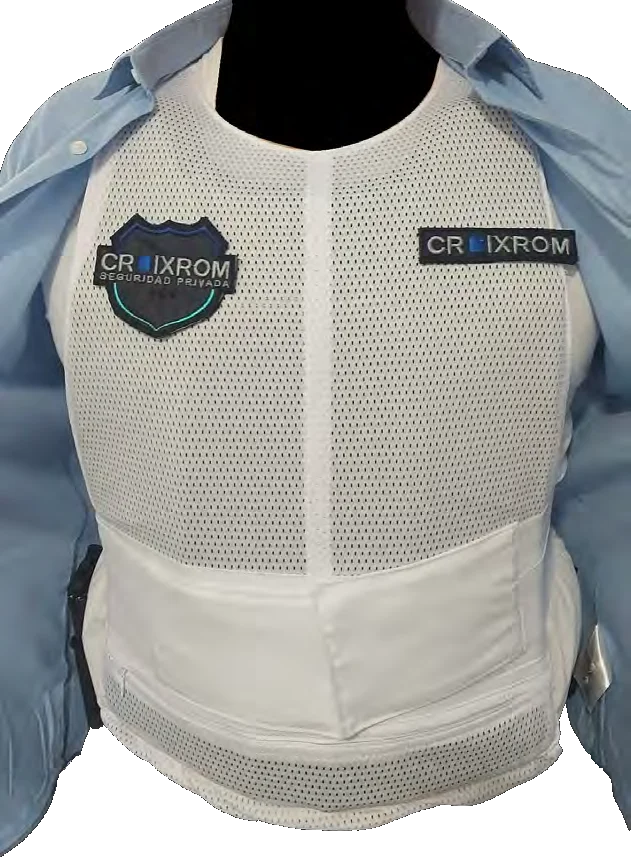
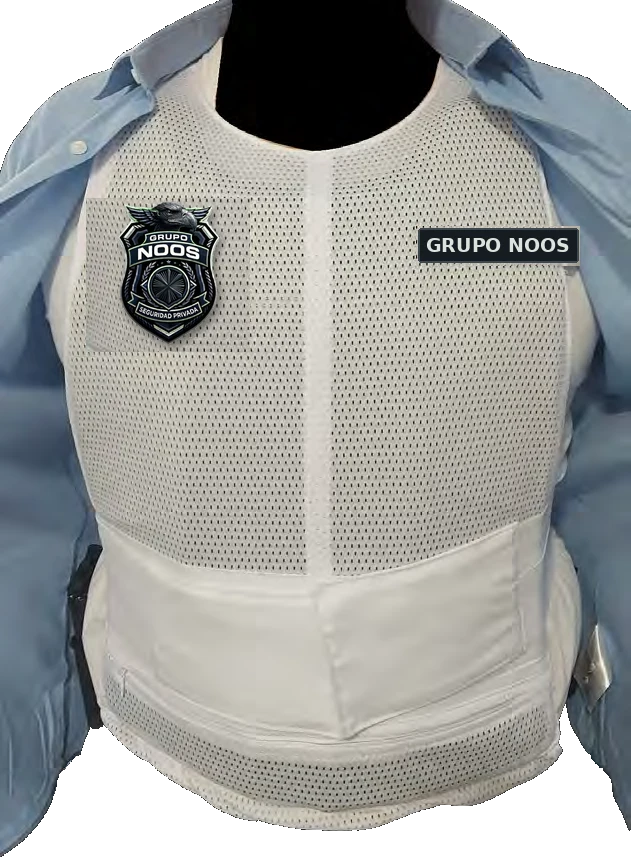
Quitar referencias a CROIXROM y usar la marca Grupo Noos
Correos y redes sociales con el nombre de Grupo Noos, parches del
chaleco antibalas reemplazados por el escudo y la cinta de Grupo Noos,
y se eliminan imágenes que ya no se usaban.

Claude-Session: https://claude.ai/code/session_01Gr8Gs3b6jXLqftHCJKEWhA

Changed region(s): [[0.1204, 0.2124, 0.3914, 0.4247], [0.6624, 0.2427, 0.9334, 0.3337]]

diff --git a/contacto.html b/contacto.html
@@ -58,7 +58,7 @@
       <ul class="contact-list">
         <li><span class="ic"><svg viewBox="0 0 24 24" fill="none" stroke="currentColor" stroke-width="1.6"><path d="M5 3h4l2 5-2.5 1.5a11 11 0 0 0 6 6L16 13l5 2v4a2 2 0 0 1-2 2A16 16 0 0 1 3 5a2 2 0 0 1 2-2"/></svg></span><div><small>Oficina</small><a href="tel:+525571004711">55 7100 4711</a></div></li>
         <li><span class="ic"><svg viewBox="0 0 24 24" fill="currentColor"><path d="M17.5 14.4c-.3-.1-1.7-.8-2-.9-.3-.1-.5-.1-.7.1-.2.3-.8.9-.9 1.1-.2.2-.3.2-.6.1-.3-.1-1.2-.5-2.3-1.4-.9-.8-1.4-1.7-1.6-2-.2-.3 0-.5.1-.6l.4-.5c.2-.2.2-.3.3-.5.1-.2 0-.4 0-.5l-.9-2.2c-.2-.6-.5-.5-.7-.5h-.6c-.2 0-.5.1-.8.4-.3.3-1 1-1 2.4s1 2.8 1.2 3c.1.2 2 3.1 4.9 4.3.7.3 1.2.5 1.7.6.7.2 1.3.2 1.8.1.6-.1 1.7-.7 1.9-1.4.2-.7.2-1.2.2-1.4-.1-.1-.3-.2-.6-.3zM12 21.8c-1.8 0-3.5-.5-5-1.4l-.4-.2-3.7 1 1-3.6-.2-.4A9.8 9.8 0 1 1 12 21.8zm8.4-18.2A11.8 11.8 0 0 0 1.9 17.9L.2 24l6.3-1.7A11.8 11.8 0 0 0 24 12c0-3.2-1.2-6.1-3.6-8.4z"/></svg></span><div><small>WhatsApp</small><a href="https://wa.me/525523781229" target="_blank" rel="noopener">55 2378 1229</a></div></li>
-        <li><span class="ic"><svg viewBox="0 0 24 24" fill="none" stroke="currentColor" stroke-width="1.6"><rect x="3" y="5" width="18" height="14"/><path d="m3 6 9 7 9-7"/></svg></span><div><small>Correo</small><a href="mailto:ceo@croixrom.mx">ceo@croixrom.mx</a><br><a href="mailto:a.castaneda@croixrom.mx">a.castaneda@croixrom.mx</a></div></li>
+        <li><span class="ic"><svg viewBox="0 0 24 24" fill="none" stroke="currentColor" stroke-width="1.6"><rect x="3" y="5" width="18" height="14"/><path d="m3 6 9 7 9-7"/></svg></span><div><small>Correo</small><a href="mailto:ceo@gruponoos.mx">ceo@gruponoos.mx</a><br><a href="mailto:a.castaneda@gruponoos.mx">a.castaneda@gruponoos.mx</a></div></li>
         <li><span class="ic"><svg viewBox="0 0 24 24" fill="none" stroke="currentColor" stroke-width="1.6"><path d="M12 22s7-6.2 7-12a7 7 0 1 0-14 0c0 5.8 7 12 7 12z"/><circle cx="12" cy="10" r="2.5"/></svg></span><div><small>Oficina corporativa</small><address>Blvd. Adolfo Ruiz Cortines 3720, Torre II, Piso 8, Col. Jardines del Pedregal, Alcaldía Álvaro Obregón, C.P. 01900, CDMX</address></div></li>
         <li><span class="ic"><svg viewBox="0 0 24 24" fill="none" stroke="currentColor" stroke-width="1.6"><path d="M12 22s7-6.2 7-12a7 7 0 1 0-14 0c0 5.8 7 12 7 12z"/><circle cx="12" cy="10" r="2.5"/></svg></span><div><small>Oficina Benito Juárez</small><address>Saturnino Herrán 17, Col. San José Insurgentes, Alcaldía Benito Juárez, C.P. 03900, CDMX</address></div></li>
       </ul>
@@ -118,8 +118,8 @@
         <img src="assets/img/logo-grupo-noos.webp" alt="Grupo Noos Seguridad Privada" width="88" height="120" loading="lazy">
         <p>Seguridad privada, protección personal, capacitación y logística con altos estándares de calidad y atención personalizada.</p>
         <div class="socials">
-          <a href="https://www.instagram.com/croixrom/" target="_blank" rel="noopener" aria-label="Instagram"><svg viewBox="0 0 24 24" fill="none" stroke="currentColor" stroke-width="1.8"><rect x="3" y="3" width="18" height="18" rx="5"/><circle cx="12" cy="12" r="4"/><circle cx="17.5" cy="6.5" r="1" fill="currentColor"/></svg></a>
-          <a href="https://www.facebook.com/croixrom" target="_blank" rel="noopener" aria-label="Facebook"><svg viewBox="0 0 24 24" fill="currentColor"><path d="M14 8h3V4h-3c-2.8 0-4.5 1.8-4.5 4.6V11H7v4h2.5v9h4v-9h3l.5-4h-3.5V8.8c0-.5.3-.8.5-.8z"/></svg></a>
+          <a href="https://www.instagram.com/gruponoos/" target="_blank" rel="noopener" aria-label="Instagram"><svg viewBox="0 0 24 24" fill="none" stroke="currentColor" stroke-width="1.8"><rect x="3" y="3" width="18" height="18" rx="5"/><circle cx="12" cy="12" r="4"/><circle cx="17.5" cy="6.5" r="1" fill="currentColor"/></svg></a>
+          <a href="https://www.facebook.com/gruponoos" target="_blank" rel="noopener" aria-label="Facebook"><svg viewBox="0 0 24 24" fill="currentColor"><path d="M14 8h3V4h-3c-2.8 0-4.5 1.8-4.5 4.6V11H7v4h2.5v9h4v-9h3l.5-4h-3.5V8.8c0-.5.3-.8.5-.8z"/></svg></a>
           <a href="https://wa.me/525523781229" target="_blank" rel="noopener" aria-label="WhatsApp"><svg viewBox="0 0 24 24" fill="currentColor"><path d="M17.5 14.4c-.3-.1-1.7-.8-2-.9-.3-.1-.5-.1-.7.1-.2.3-.8.9-.9 1.1-.2.2-.3.2-.6.1-.3-.1-1.2-.5-2.3-1.4-.9-.8-1.4-1.7-1.6-2-.2-.3 0-.5.1-.6l.4-.5c.2-.2.2-.3.3-.5.1-.2 0-.4 0-.5l-.9-2.2c-.2-.6-.5-.5-.7-.5h-.6c-.2 0-.5.1-.8.4-.3.3-1 1-1 2.4s1 2.8 1.2 3c.1.2 2 3.1 4.9 4.3.7.3 1.2.5 1.7.6.7.2 1.3.2 1.8.1.6-.1 1.7-.7 1.9-1.4.2-.7.2-1.2.2-1.4-.1-.1-.3-.2-.6-.3zM12 21.8c-1.8 0-3.5-.5-5-1.4l-.4-.2-3.7 1 1-3.6-.2-.4A9.8 9.8 0 1 1 12 21.8zm8.4-18.2A11.8 11.8 0 0 0 1.9 17.9L.2 24l6.3-1.7A11.8 11.8 0 0 0 24 12c0-3.2-1.2-6.1-3.6-8.4z"/></svg></a>
         </div>
       </div>
@@ -148,7 +148,7 @@
         <ul>
           <li><a href="tel:+525571004711">Oficina: 55 7100 4711</a></li>
           <li><a href="https://wa.me/525523781229" target="_blank" rel="noopener">WhatsApp: 55 2378 1229</a></li>
-          <li><a href="mailto:ceo@croixrom.mx">ceo@croixrom.mx</a></li>
+          <li><a href="mailto:ceo@gruponoos.mx">ceo@gruponoos.mx</a></li>
           <li>Jardines del Pedregal, Álvaro Obregón, CDMX</li>
         </ul>
       </div>

diff --git a/capacitacion.html b/capacitacion.html
@@ -180,8 +180,8 @@
         <img src="assets/img/logo-grupo-noos.webp" alt="Grupo Noos Seguridad Privada" width="88" height="120" loading="lazy">
         <p>Seguridad privada, protección personal, capacitación y logística con altos estándares de calidad y atención personalizada.</p>
         <div class="socials">
-          <a href="https://www.instagram.com/croixrom/" target="_blank" rel="noopener" aria-label="Instagram"><svg viewBox="0 0 24 24" fill="none" stroke="currentColor" stroke-width="1.8"><rect x="3" y="3" width="18" height="18" rx="5"/><circle cx="12" cy="12" r="4"/><circle cx="17.5" cy="6.5" r="1" fill="currentColor"/></svg></a>
-          <a href="https://www.facebook.com/croixrom" target="_blank" rel="noopener" aria-label="Facebook"><svg viewBox="0 0 24 24" fill="currentColor"><path d="M14 8h3V4h-3c-2.8 0-4.5 1.8-4.5 4.6V11H7v4h2.5v9h4v-9h3l.5-4h-3.5V8.8c0-.5.3-.8.5-.8z"/></svg></a>
+          <a href="https://www.instagram.com/gruponoos/" target="_blank" rel="noopener" aria-label="Instagram"><svg viewBox="0 0 24 24" fill="none" stroke="currentColor" stroke-width="1.8"><rect x="3" y="3" width="18" height="18" rx="5"/><circle cx="12" cy="12" r="4"/><circle cx="17.5" cy="6.5" r="1" fill="currentColor"/></svg></a>
+          <a href="https://www.facebook.com/gruponoos" target="_blank" rel="noopener" aria-label="Facebook"><svg viewBox="0 0 24 24" fill="currentColor"><path d="M14 8h3V4h-3c-2.8 0-4.5 1.8-4.5 4.6V11H7v4h2.5v9h4v-9h3l.5-4h-3.5V8.8c0-.5.3-.8.5-.8z"/></svg></a>
           <a href="https://wa.me/525523781229" target="_blank" rel="noopener" aria-label="WhatsApp"><svg viewBox="0 0 24 24" fill="currentColor"><path d="M17.5 14.4c-.3-.1-1.7-.8-2-.9-.3-.1-.5-.1-.7.1-.2.3-.8.9-.9 1.1-.2.2-.3.2-.6.1-.3-.1-1.2-.5-2.3-1.4-.9-.8-1.4-1.7-1.6-2-.2-.3 0-.5.1-.6l.4-.5c.2-.2.2-.3.3-.5.1-.2 0-.4 0-.5l-.9-2.2c-.2-.6-.5-.5-.7-.5h-.6c-.2 0-.5.1-.8.4-.3.3-1 1-1 2.4s1 2.8 1.2 3c.1.2 2 3.1 4.9 4.3.7.3 1.2.5 1.7.6.7.2 1.3.2 1.8.1.6-.1 1.7-.7 1.9-1.4.2-.7.2-1.2.2-1.4-.1-.1-.3-.2-.6-.3zM12 21.8c-1.8 0-3.5-.5-5-1.4l-.4-.2-3.7 1 1-3.6-.2-.4A9.8 9.8 0 1 1 12 21.8zm8.4-18.2A11.8 11.8 0 0 0 1.9 17.9L.2 24l6.3-1.7A11.8 11.8 0 0 0 24 12c0-3.2-1.2-6.1-3.6-8.4z"/></svg></a>
         </div>
       </div>
@@ -210,7 +210,7 @@
         <ul>
           <li><a href="tel:+525571004711">Oficina: 55 7100 4711</a></li>
           <li><a href="https://wa.me/525523781229" target="_blank" rel="noopener">WhatsApp: 55 2378 1229</a></li>
-          <li><a href="mailto:ceo@croixrom.mx">ceo@croixrom.mx</a></li>
+          <li><a href="mailto:ceo@gruponoos.mx">ceo@gruponoos.mx</a></li>
           <li>Jardines del Pedregal, Álvaro Obregón, CDMX</li>
         </ul>
       </div>

diff --git a/equipamiento.html b/equipamiento.html
@@ -125,8 +125,8 @@
         <img src="assets/img/logo-grupo-noos.webp" alt="Grupo Noos Seguridad Privada" width="88" height="120" loading="lazy">
         <p>Seguridad privada, protección personal, capacitación y logística con altos estándares de calidad y atención personalizada.</p>
         <div class="socials">
-          <a href="https://www.instagram.com/croixrom/" target="_blank" rel="noopener" aria-label="Instagram"><svg viewBox="0 0 24 24" fill="none" stroke="currentColor" stroke-width="1.8"><rect x="3" y="3" width="18" height="18" rx="5"/><circle cx="12" cy="12" r="4"/><circle cx="17.5" cy="6.5" r="1" fill="currentColor"/></svg></a>
-          <a href="https://www.facebook.com/croixrom" target="_blank" rel="noopener" aria-label="Facebook"><svg viewBox="0 0 24 24" fill="currentColor"><path d="M14 8h3V4h-3c-2.8 0-4.5 1.8-4.5 4.6V11H7v4h2.5v9h4v-9h3l.5-4h-3.5V8.8c0-.5.3-.8.5-.8z"/></svg></a>
+          <a href="https://www.instagram.com/gruponoos/" target="_blank" rel="noopener" aria-label="Instagram"><svg viewBox="0 0 24 24" fill="none" stroke="currentColor" stroke-width="1.8"><rect x="3" y="3" width="18" height="18" rx="5"/><circle cx="12" cy="12" r="4"/><circle cx="17.5" cy="6.5" r="1" fill="currentColor"/></svg></a>
+          <a href="https://www.facebook.com/gruponoos" target="_blank" rel="noopener" aria-label="Facebook"><svg viewBox="0 0 24 24" fill="currentColor"><path d="M14 8h3V4h-3c-2.8 0-4.5 1.8-4.5 4.6V11H7v4h2.5v9h4v-9h3l.5-4h-3.5V8.8c0-.5.3-.8.5-.8z"/></svg></a>
           <a href="https://wa.me/525523781229" target="_blank" rel="noopener" aria-label="WhatsApp"><svg viewBox="0 0 24 24" fill="currentColor"><path d="M17.5 14.4c-.3-.1-1.7-.8-2-.9-.3-.1-.5-.1-.7.1-.2.3-.8.9-.9 1.1-.2.2-.3.2-.6.1-.3-.1-1.2-.5-2.3-1.4-.9-.8-1.4-1.7-1.6-2-.2-.3 0-.5.1-.6l.4-.5c.2-.2.2-.3.3-.5.1-.2 0-.4 0-.5l-.9-2.2c-.2-.6-.5-.5-.7-.5h-.6c-.2 0-.5.1-.8.4-.3.3-1 1-1 2.4s1 2.8 1.2 3c.1.2 2 3.1 4.9 4.3.7.3 1.2.5 1.7.6.7.2 1.3.2 1.8.1.6-.1 1.7-.7 1.9-1.4.2-.7.2-1.2.2-1.4-.1-.1-.3-.2-.6-.3zM12 21.8c-1.8 0-3.5-.5-5-1.4l-.4-.2-3.7 1 1-3.6-.2-.4A9.8 9.8 0 1 1 12 21.8zm8.4-18.2A11.8 11.8 0 0 0 1.9 17.9L.2 24l6.3-1.7A11.8 11.8 0 0 0 24 12c0-3.2-1.2-6.1-3.6-8.4z"/></svg></a>
         </div>
       </div>
@@ -155,7 +155,7 @@
         <ul>
           <li><a href="tel:+525571004711">Oficina: 55 7100 4711</a></li>
           <li><a href="https://wa.me/525523781229" target="_blank" rel="noopener">WhatsApp: 55 2378 1229</a></li>
-          <li><a href="mailto:ceo@croixrom.mx">ceo@croixrom.mx</a></li>
+          <li><a href="mailto:ceo@gruponoos.mx">ceo@gruponoos.mx</a></li>
           <li>Jardines del Pedregal, Álvaro Obregón, CDMX</li>
         </ul>
       </div>

diff --git a/index.html b/index.html
@@ -216,8 +216,8 @@
         <img src="assets/img/logo-grupo-noos.webp" alt="Grupo Noos Seguridad Privada" width="88" height="120" loading="lazy">
         <p>Seguridad privada, protección personal, capacitación y logística con altos estándares de calidad y atención personalizada.</p>
         <div class="socials">
-          <a href="https://www.instagram.com/croixrom/" target="_blank" rel="noopener" aria-label="Instagram"><svg viewBox="0 0 24 24" fill="none" stroke="currentColor" stroke-width="1.8"><rect x="3" y="3" width="18" height="18" rx="5"/><circle cx="12" cy="12" r="4"/><circle cx="17.5" cy="6.5" r="1" fill="currentColor"/></svg></a>
-          <a href="https://www.facebook.com/croixrom" target="_blank" rel="noopener" aria-label="Facebook"><svg viewBox="0 0 24 24" fill="currentColor"><path d="M14 8h3V4h-3c-2.8 0-4.5 1.8-4.5 4.6V11H7v4h2.5v9h4v-9h3l.5-4h-3.5V8.8c0-.5.3-.8.5-.8z"/></svg></a>
+          <a href="https://www.instagram.com/gruponoos/" target="_blank" rel="noopener" aria-label="Instagram"><svg viewBox="0 0 24 24" fill="none" stroke="currentColor" stroke-width="1.8"><rect x="3" y="3" width="18" height="18" rx="5"/><circle cx="12" cy="12" r="4"/><circle cx="17.5" cy="6.5" r="1" fill="currentColor"/></svg></a>
+          <a href="https://www.facebook.com/gruponoos" target="_blank" rel="noopener" aria-label="Facebook"><svg viewBox="0 0 24 24" fill="currentColor"><path d="M14 8h3V4h-3c-2.8 0-4.5 1.8-4.5 4.6V11H7v4h2.5v9h4v-9h3l.5-4h-3.5V8.8c0-.5.3-.8.5-.8z"/></svg></a>
           <a href="https://wa.me/525523781229" target="_blank" rel="noopener" aria-label="WhatsApp"><svg viewBox="0 0 24 24" fill="currentColor"><path d="M17.5 14.4c-.3-.1-1.7-.8-2-.9-.3-.1-.5-.1-.7.1-.2.3-.8.9-.9 1.1-.2.2-.3.2-.6.1-.3-.1-1.2-.5-2.3-1.4-.9-.8-1.4-1.7-1.6-2-.2-.3 0-.5.1-.6l.4-.5c.2-.2.2-.3.3-.5.1-.2 0-.4 0-.5l-.9-2.2c-.2-.6-.5-.5-.7-.5h-.6c-.2 0-.5.1-.8.4-.3.3-1 1-1 2.4s1 2.8 1.2 3c.1.2 2 3.1 4.9 4.3.7.3 1.2.5 1.7.6.7.2 1.3.2 1.8.1.6-.1 1.7-.7 1.9-1.4.2-.7.2-1.2.2-1.4-.1-.1-.3-.2-.6-.3zM12 21.8c-1.8 0-3.5-.5-5-1.4l-.4-.2-3.7 1 1-3.6-.2-.4A9.8 9.8 0 1 1 12 21.8zm8.4-18.2A11.8 11.8 0 0 0 1.9 17.9L.2 24l6.3-1.7A11.8 11.8 0 0 0 24 12c0-3.2-1.2-6.1-3.6-8.4z"/></svg></a>
         </div>
       </div>
@@ -246,7 +246,7 @@
         <ul>
           <li><a href="tel:+525571004711">Oficina: 55 7100 4711</a></li>
           <li><a href="https://wa.me/525523781229" target="_blank" rel="noopener">WhatsApp: 55 2378 1229</a></li>
-          <li><a href="mailto:ceo@croixrom.mx">ceo@croixrom.mx</a></li>
+          <li><a href="mailto:ceo@gruponoos.mx">ceo@gruponoos.mx</a></li>
           <li>Jardines del Pedregal, Álvaro Obregón, CDMX</li>
         </ul>
       </div>

diff --git a/nosotros.html b/nosotros.html
@@ -204,8 +204,8 @@
         <img src="assets/img/logo-grupo-noos.webp" alt="Grupo Noos Seguridad Privada" width="88" height="120" loading="lazy">
         <p>Seguridad privada, protección personal, capacitación y logística con altos estándares de calidad y atención personalizada.</p>
         <div class="socials">
-          <a href="https://www.instagram.com/croixrom/" target="_blank" rel="noopener" aria-label="Instagram"><svg viewBox="0 0 24 24" fill="none" stroke="currentColor" stroke-width="1.8"><rect x="3" y="3" width="18" height="18" rx="5"/><circle cx="12" cy="12" r="4"/><circle cx="17.5" cy="6.5" r="1" fill="currentColor"/></svg></a>
-          <a href="https://www.facebook.com/croixrom" target="_blank" rel="noopener" aria-label="Facebook"><svg viewBox="0 0 24 24" fill="currentColor"><path d="M14 8h3V4h-3c-2.8 0-4.5 1.8-4.5 4.6V11H7v4h2.5v9h4v-9h3l.5-4h-3.5V8.8c0-.5.3-.8.5-.8z"/></svg></a>
+          <a href="https://www.instagram.com/gruponoos/" target="_blank" rel="noopener" aria-label="Instagram"><svg viewBox="0 0 24 24" fill="none" stroke="currentColor" stroke-width="1.8"><rect x="3" y="3" width="18" height="18" rx="5"/><circle cx="12" cy="12" r="4"/><circle cx="17.5" cy="6.5" r="1" fill="currentColor"/></svg></a>
+          <a href="https://www.facebook.com/gruponoos" target="_blank" rel="noopener" aria-label="Facebook"><svg viewBox="0 0 24 24" fill="currentColor"><path d="M14 8h3V4h-3c-2.8 0-4.5 1.8-4.5 4.6V11H7v4h2.5v9h4v-9h3l.5-4h-3.5V8.8c0-.5.3-.8.5-.8z"/></svg></a>
           <a href="https://wa.me/525523781229" target="_blank" rel="noopener" aria-label="WhatsApp"><svg viewBox="0 0 24 24" fill="currentColor"><path d="M17.5 14.4c-.3-.1-1.7-.8-2-.9-.3-.1-.5-.1-.7.1-.2.3-.8.9-.9 1.1-.2.2-.3.2-.6.1-.3-.1-1.2-.5-2.3-1.4-.9-.8-1.4-1.7-1.6-2-.2-.3 0-.5.1-.6l.4-.5c.2-.2.2-.3.3-.5.1-.2 0-.4 0-.5l-.9-2.2c-.2-.6-.5-.5-.7-.5h-.6c-.2 0-.5.1-.8.4-.3.3-1 1-1 2.4s1 2.8 1.2 3c.1.2 2 3.1 4.9 4.3.7.3 1.2.5 1.7.6.7.2 1.3.2 1.8.1.6-.1 1.7-.7 1.9-1.4.2-.7.2-1.2.2-1.4-.1-.1-.3-.2-.6-.3zM12 21.8c-1.8 0-3.5-.5-5-1.4l-.4-.2-3.7 1 1-3.6-.2-.4A9.8 9.8 0 1 1 12 21.8zm8.4-18.2A11.8 11.8 0 0 0 1.9 17.9L.2 24l6.3-1.7A11.8 11.8 0 0 0 24 12c0-3.2-1.2-6.1-3.6-8.4z"/></svg></a>
         </div>
       </div>
@@ -234,7 +234,7 @@
         <ul>
           <li><a href="tel:+525571004711">Oficina: 55 7100 4711</a></li>
           <li><a href="https://wa.me/525523781229" target="_blank" rel="noopener">WhatsApp: 55 2378 1229</a></li>
-          <li><a href="mailto:ceo@croixrom.mx">ceo@croixrom.mx</a></li>
+          <li><a href="mailto:ceo@gruponoos.mx">ceo@gruponoos.mx</a></li>
           <li>Jardines del Pedregal, Álvaro Obregón, CDMX</li>
         </ul>
       </div>

diff --git a/servicios.html b/servicios.html
@@ -150,8 +150,8 @@
         <img src="assets/img/logo-grupo-noos.webp" alt="Grupo Noos Seguridad Privada" width="88" height="120" loading="lazy">
         <p>Seguridad privada, protección personal, capacitación y logística con altos estándares de calidad y atención personalizada.</p>
         <div class="socials">
-          <a href="https://www.instagram.com/croixrom/" target="_blank" rel="noopener" aria-label="Instagram"><svg viewBox="0 0 24 24" fill="none" stroke="currentColor" stroke-width="1.8"><rect x="3" y="3" width="18" height="18" rx="5"/><circle cx="12" cy="12" r="4"/><circle cx="17.5" cy="6.5" r="1" fill="currentColor"/></svg></a>
-          <a href="https://www.facebook.com/croixrom" target="_blank" rel="noopener" aria-label="Facebook"><svg viewBox="0 0 24 24" fill="currentColor"><path d="M14 8h3V4h-3c-2.8 0-4.5 1.8-4.5 4.6V11H7v4h2.5v9h4v-9h3l.5-4h-3.5V8.8c0-.5.3-.8.5-.8z"/></svg></a>
+          <a href="https://www.instagram.com/gruponoos/" target="_blank" rel="noopener" aria-label="Instagram"><svg viewBox="0 0 24 24" fill="none" stroke="currentColor" stroke-width="1.8"><rect x="3" y="3" width="18" height="18" rx="5"/><circle cx="12" cy="12" r="4"/><circle cx="17.5" cy="6.5" r="1" fill="currentColor"/></svg></a>
+          <a href="https://www.facebook.com/gruponoos" target="_blank" rel="noopener" aria-label="Facebook"><svg viewBox="0 0 24 24" fill="currentColor"><path d="M14 8h3V4h-3c-2.8 0-4.5 1.8-4.5 4.6V11H7v4h2.5v9h4v-9h3l.5-4h-3.5V8.8c0-.5.3-.8.5-.8z"/></svg></a>
           <a href="https://wa.me/525523781229" target="_blank" rel="noopener" aria-label="WhatsApp"><svg viewBox="0 0 24 24" fill="currentColor"><path d="M17.5 14.4c-.3-.1-1.7-.8-2-.9-.3-.1-.5-.1-.7.1-.2.3-.8.9-.9 1.1-.2.2-.3.2-.6.1-.3-.1-1.2-.5-2.3-1.4-.9-.8-1.4-1.7-1.6-2-.2-.3 0-.5.1-.6l.4-.5c.2-.2.2-.3.3-.5.1-.2 0-.4 0-.5l-.9-2.2c-.2-.6-.5-.5-.7-.5h-.6c-.2 0-.5.1-.8.4-.3.3-1 1-1 2.4s1 2.8 1.2 3c.1.2 2 3.1 4.9 4.3.7.3 1.2.5 1.7.6.7.2 1.3.2 1.8.1.6-.1 1.7-.7 1.9-1.4.2-.7.2-1.2.2-1.4-.1-.1-.3-.2-.6-.3zM12 21.8c-1.8 0-3.5-.5-5-1.4l-.4-.2-3.7 1 1-3.6-.2-.4A9.8 9.8 0 1 1 12 21.8zm8.4-18.2A11.8 11.8 0 0 0 1.9 17.9L.2 24l6.3-1.7A11.8 11.8 0 0 0 24 12c0-3.2-1.2-6.1-3.6-8.4z"/></svg></a>
         </div>
       </div>
@@ -180,7 +180,7 @@
         <ul>
           <li><a href="tel:+525571004711">Oficina: 55 7100 4711</a></li>
           <li><a href="https://wa.me/525523781229" target="_blank" rel="noopener">WhatsApp: 55 2378 1229</a></li>
-          <li><a href="mailto:ceo@croixrom.mx">ceo@croixrom.mx</a></li>
+          <li><a href="mailto:ceo@gruponoos.mx">ceo@gruponoos.mx</a></li>
           <li>Jardines del Pedregal, Álvaro Obregón, CDMX</li>
         </ul>
       </div>

diff --git a/tecnologia.html b/tecnologia.html
@@ -117,8 +117,8 @@
         <img src="assets/img/logo-grupo-noos.webp" alt="Grupo Noos Seguridad Privada" width="88" height="120" loading="lazy">
         <p>Seguridad privada, protección personal, capacitación y logística con altos estándares de calidad y atención personalizada.</p>
         <div class="socials">
-          <a href="https://www.instagram.com/croixrom/" target="_blank" rel="noopener" aria-label="Instagram"><svg viewBox="0 0 24 24" fill="none" stroke="currentColor" stroke-width="1.8"><rect x="3" y="3" width="18" height="18" rx="5"/><circle cx="12" cy="12" r="4"/><circle cx="17.5" cy="6.5" r="1" fill="currentColor"/></svg></a>
-          <a href="https://www.facebook.com/croixrom" target="_blank" rel="noopener" aria-label="Facebook"><svg viewBox="0 0 24 24" fill="currentColor"><path d="M14 8h3V4h-3c-2.8 0-4.5 1.8-4.5 4.6V11H7v4h2.5v9h4v-9h3l.5-4h-3.5V8.8c0-.5.3-.8.5-.8z"/></svg></a>
+          <a href="https://www.instagram.com/gruponoos/" target="_blank" rel="noopener" aria-label="Instagram"><svg viewBox="0 0 24 24" fill="none" stroke="currentColor" stroke-width="1.8"><rect x="3" y="3" width="18" height="18" rx="5"/><circle cx="12" cy="12" r="4"/><circle cx="17.5" cy="6.5" r="1" fill="currentColor"/></svg></a>
+          <a href="https://www.facebook.com/gruponoos" target="_blank" rel="noopener" aria-label="Facebook"><svg viewBox="0 0 24 24" fill="currentColor"><path d="M14 8h3V4h-3c-2.8 0-4.5 1.8-4.5 4.6V11H7v4h2.5v9h4v-9h3l.5-4h-3.5V8.8c0-.5.3-.8.5-.8z"/></svg></a>
           <a href="https://wa.me/525523781229" target="_blank" rel="noopener" aria-label="WhatsApp"><svg viewBox="0 0 24 24" fill="currentColor"><path d="M17.5 14.4c-.3-.1-1.7-.8-2-.9-.3-.1-.5-.1-.7.1-.2.3-.8.9-.9 1.1-.2.2-.3.2-.6.1-.3-.1-1.2-.5-2.3-1.4-.9-.8-1.4-1.7-1.6-2-.2-.3 0-.5.1-.6l.4-.5c.2-.2.2-.3.3-.5.1-.2 0-.4 0-.5l-.9-2.2c-.2-.6-.5-.5-.7-.5h-.6c-.2 0-.5.1-.8.4-.3.3-1 1-1 2.4s1 2.8 1.2 3c.1.2 2 3.1 4.9 4.3.7.3 1.2.5 1.7.6.7.2 1.3.2 1.8.1.6-.1 1.7-.7 1.9-1.4.2-.7.2-1.2.2-1.4-.1-.1-.3-.2-.6-.3zM12 21.8c-1.8 0-3.5-.5-5-1.4l-.4-.2-3.7 1 1-3.6-.2-.4A9.8 9.8 0 1 1 12 21.8zm8.4-18.2A11.8 11.8 0 0 0 1.9 17.9L.2 24l6.3-1.7A11.8 11.8 0 0 0 24 12c0-3.2-1.2-6.1-3.6-8.4z"/></svg></a>
         </div>
       </div>
@@ -147,7 +147,7 @@
         <ul>
           <li><a href="tel:+525571004711">Oficina: 55 7100 4711</a></li>
           <li><a href="https://wa.me/525523781229" target="_blank" rel="noopener">WhatsApp: 55 2378 1229</a></li>
-          <li><a href="mailto:ceo@croixrom.mx">ceo@croixrom.mx</a></li>
+          <li><a href="mailto:ceo@gruponoos.mx">ceo@gruponoos.mx</a></li>
           <li>Jardines del Pedregal, Álvaro Obregón, CDMX</li>
         </ul>
       </div>

diff --git a/tools/build_pages.py b/tools/build_pages.py
@@ -8,10 +8,10 @@ PHONE_DISPLAY = "55 7100 4711"
 PHONE_TEL = "+525571004711"
 WA = "525523781229"
 WA_DISPLAY = "55 2378 1229"
-EMAIL = "ceo@croixrom.mx"
-EMAIL2 = "a.castaneda@croixrom.mx"
-IG = "https://www.instagram.com/croixrom/"
-FB = "https://www.facebook.com/croixrom"
+EMAIL = "ceo@gruponoos.mx"
+EMAIL2 = "a.castaneda@gruponoos.mx"
+IG = "https://www.instagram.com/gruponoos/"
+FB = "https://www.facebook.com/gruponoos"
 ADDR1 = "Blvd. Adolfo Ruiz Cortines 3720, Torre II, Piso 8, Col. Jardines del Pedregal, Alcaldía Álvaro Obregón, C.P. 01900, CDMX"
 ADDR2 = "Saturnino Herrán 17, Col. San José Insurgentes, Alcaldía Benito Juárez, C.P. 03900, CDMX"
 

diff --git a/README.md b/README.md
@@ -36,8 +36,10 @@ Para verlo localmente: `python3 -m http.server` y abre http://localhost:8000
 
 ## Pendientes por confirmar con el cliente
 
-- **Correos**: siguen siendo `@croixrom.mx`. Cambiarlos cuando exista el dominio de Grupo Noos.
+- **Correos**: `ceo@gruponoos.mx` y `a.castaneda@gruponoos.mx`. Confirmar que el dominio `gruponoos.mx`
+  exista y que esos buzones reciban correo.
+- **Redes sociales**: los enlaces apuntan a `instagram.com/gruponoos` y `facebook.com/gruponoos`.
+  Confirmar los usuarios reales.
 - **WhatsApp**: se usa el 55 2378 1229. Confirmar que sea el número comercial.
-- **Redes sociales**: los enlaces apuntan a `@croixrom`. Actualizarlos a las cuentas de Grupo Noos.
-- **Permiso SSC 0911-20**: está a nombre de CROIXROM, S.A. de C.V. Confirmar que el cambio de nombre
-  ya esté reflejado ante la SSC antes de publicarlo como de Grupo Noos.
+- **Permiso SSC 0911-20**: confirmar que el cambio de razón social a Grupo Noos ya esté registrado ante
+  la SSC antes de publicarlo.
